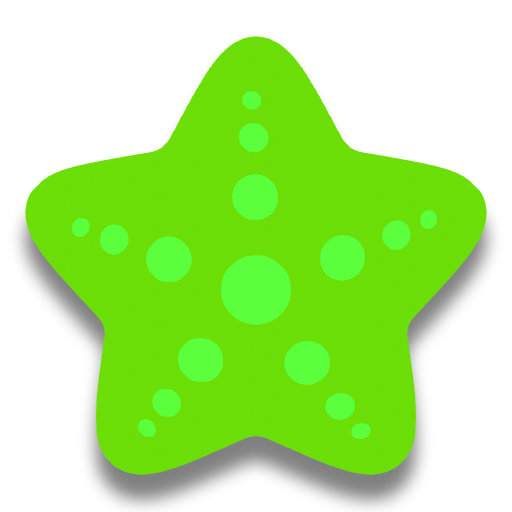
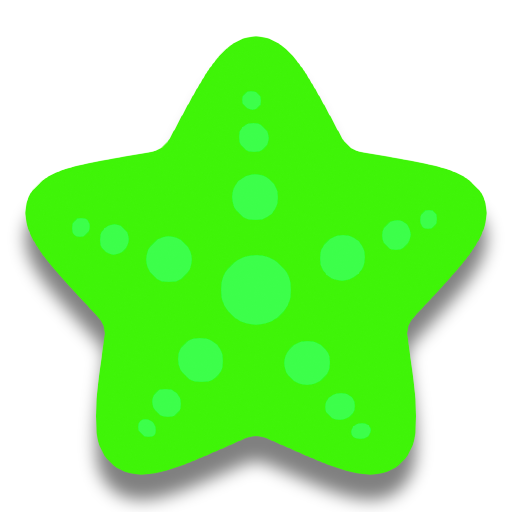
reskin-complete: palette built for the dark-blue board — every gem warm or bright, pearls cream vs deep red

diff --git a/Assets/Reskin/SOURCES.md b/Assets/Reskin/SOURCES.md
@@ -4,9 +4,10 @@ Placeholder set for participants without Scenario access. NOT studio art.
 
 - Tool: Pillow 11 (hue rotation / tint) over the shipped Gem Hunter sprites
   (`Images/Gameplay pieces/Sprite_*Item.png`, `Images/UI/Gems/SP_Gem_*.png`).
-- Per gem: Blue→hue 25°, Green→268° (value ×1.35), Purple→175°, Red→95°, Yellow→205°,
-  White→warm gold tint, Amethyst→pink tint (1.0, 0.42, 0.68) of the White sprite (baked, so the
-  prefab tint is reset to white on this branch).
+- Palette chosen for the dark-blue board (cool hues sink into it): fish 25°
+  orange, turtle 55° yellow (value x1.35), star 110° green, gem 175° cyan,
+  oyster 320° magenta, pearl cream tint, Amethyst deep-red tint of the White
+  sprite (baked, so the prefab tint is reset to white on this branch).
 - Import settings copied from the samples: Sprite/Single, PPU 512, centre pivot,
   Bilinear, max 2048.
 - Generated 2026-09-03 for the `reskin-complete` checkpoint.
